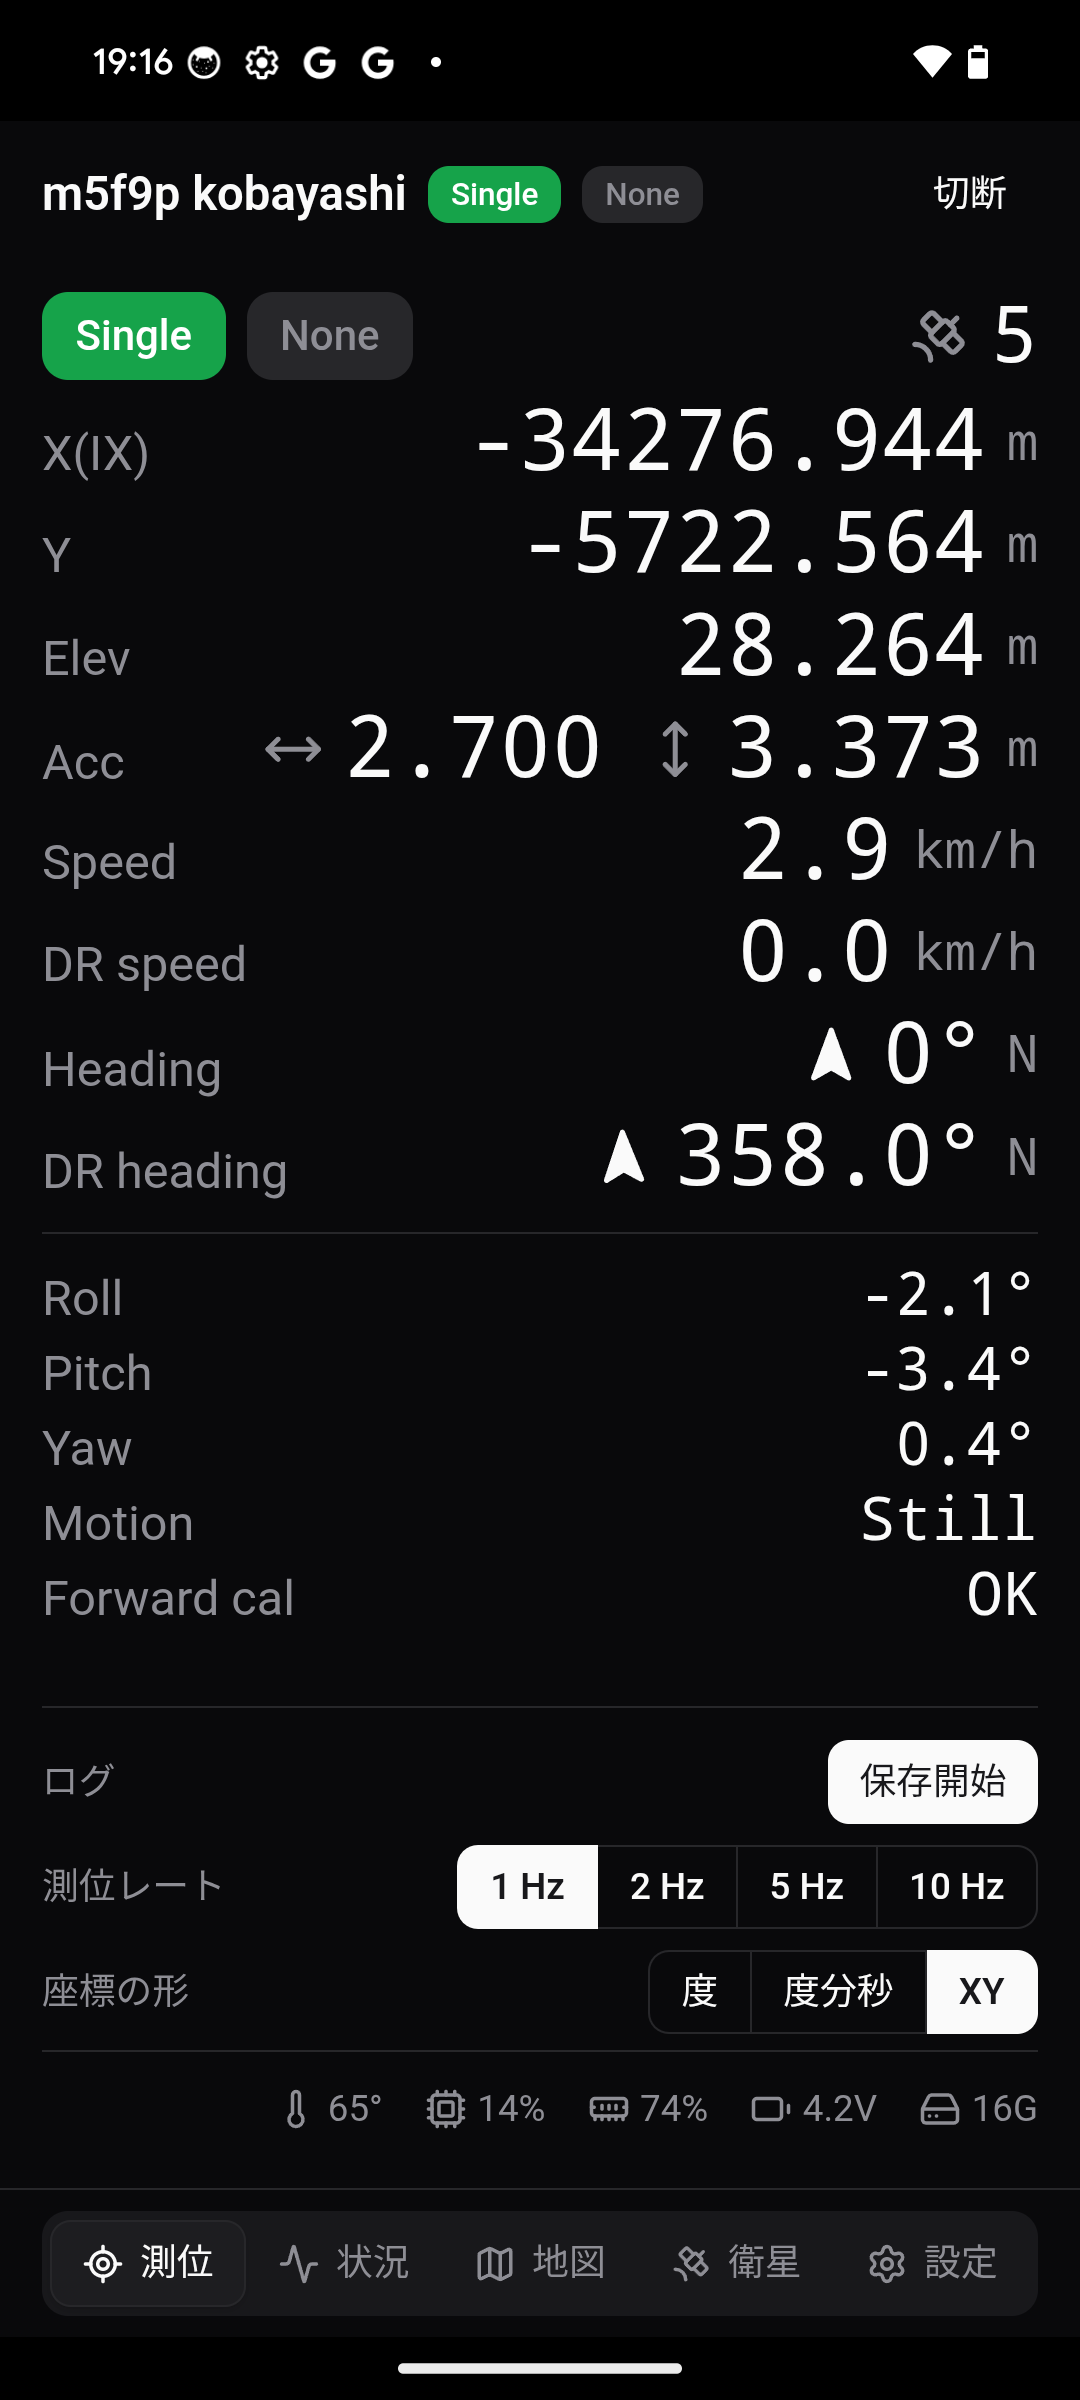
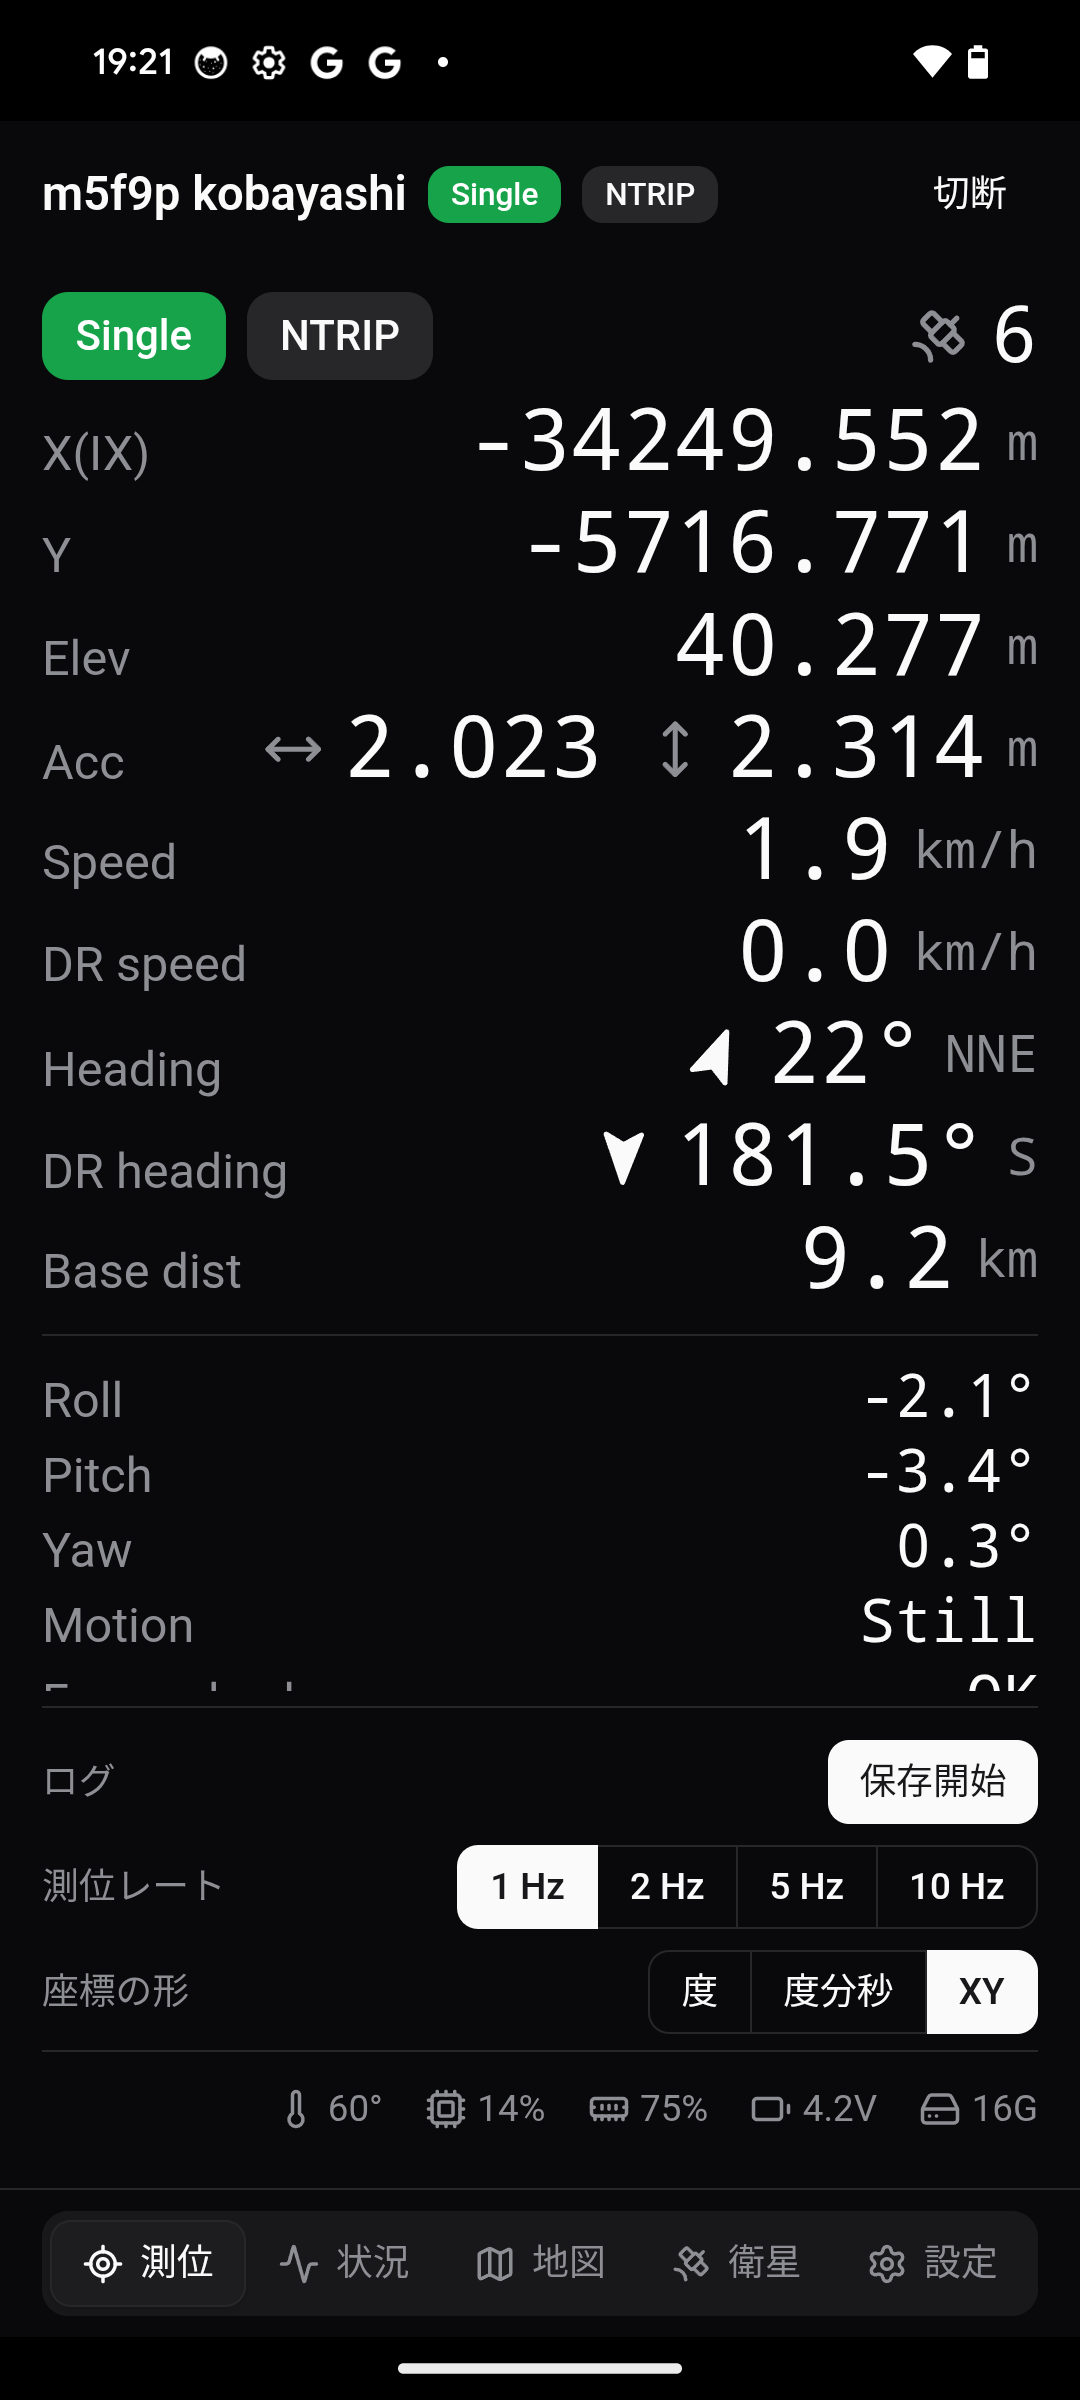
測位タブの DR heading の後に基準局までの距離（Base dist）を足した

diff --git a/web/src/components/LivePage.vue b/web/src/components/LivePage.vue
@@ -114,6 +114,12 @@ const degrees = (deg: number) => `${Math.round(deg) % 360}°`;
       </LiveRow>
     </template>
 
+    <!-- 基準局（RTK サーバー）までの距離。取得先があって、局の位置が分かっている時だけ -->
+    <LiveRow v-if="s.base.valid" label="Base dist">
+      <template v-if="s.base.km !== undefined">{{ s.base.km.toFixed(1) }}<span :class="unit">km</span></template>
+      <template v-else>--</template>
+    </LiveRow>
+
     <!-- IMU（設定の imu.enable が入っている時だけ届く）。見出しは付けず、線で区切る -->
     <template v-if="imu">
       <div class="my-1.5 border-t" />

diff --git a/docs/screens-android.md b/docs/screens-android.md
@@ -75,6 +75,7 @@ flowchart TD
 - `Elev` / `Alt`: 標高。設定の「標高を表示する」を切ったときと、ジオイド高が届かないときは楕円体高(`Alt`)
 - `Acc`: 精度(左右の矢印が水平、上下の矢印が垂直。m)
 - `Speed`、`DR speed`、`Heading`、`DR heading`: 速度(km/h)と方角(進行方向の角度と16方位、進行方向に向けた矢印)。止まっている間(1 km/h 未満)は、方角を `--` にします。`DR` の付いた行は IMU の推測航法の値で、GNSS の値のすぐ下に並べます(IMU を使うときだけ)。
+- `Base dist`: 補正データを受けている基準局(RTK サーバー)までの距離(km)。取得先を選んでいるときに出て、局の位置が分かるまでは `--`
 - `Roll`、`Pitch`、`Yaw`(姿勢)、`Motion`(`Still` / `Moving`)、`Forward cal`(車体の前方向の校正)、模擬の途切れの間は `DR test`(残り秒数と誤差)。本体の設定で IMU を使うときだけ
 - 下段: 操作。`ログ`(`保存開始` / `保存停止`。保存中は形式を表示)、`測位レート`(1 / 2 / 5 / 10 Hz)、`座標の形`(`度` / `度分秒` / `XY`)の 3 行(ラベルが左、部品が右)。変えるとすぐに本体に反映されます。この帯と最下段は下に固定され、高さが足りないときは上の表示の部分だけがスクロールします
 - 最下段: 本体の状態(CPU 温度、CPU 使用率、メモリ使用率、電圧、SD カードの空き)
